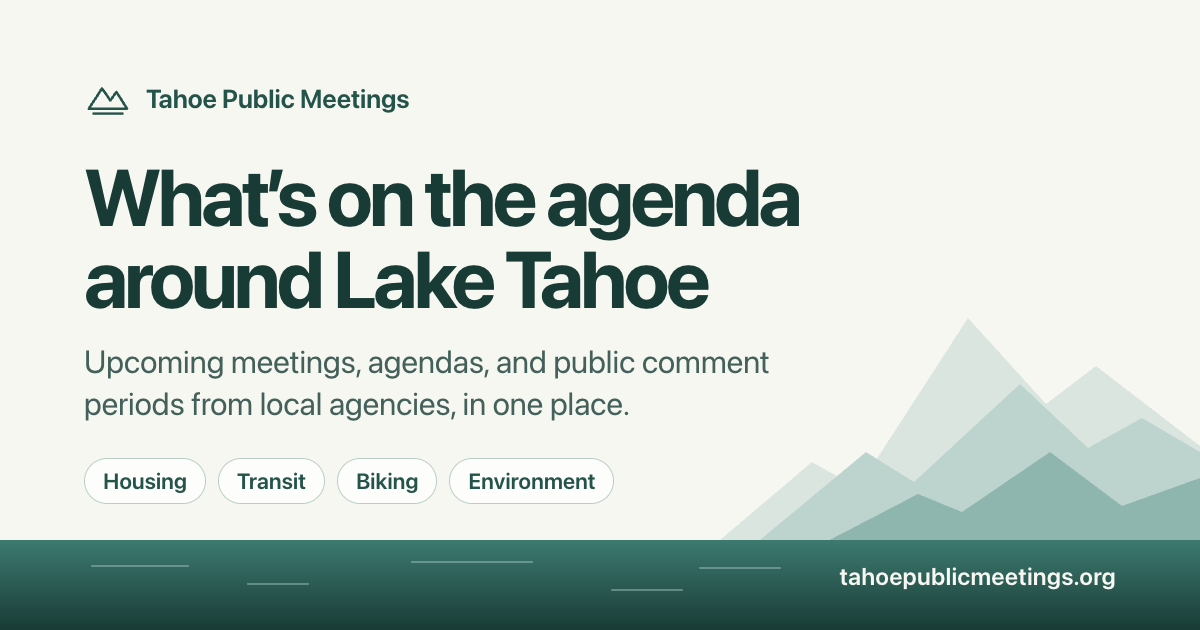
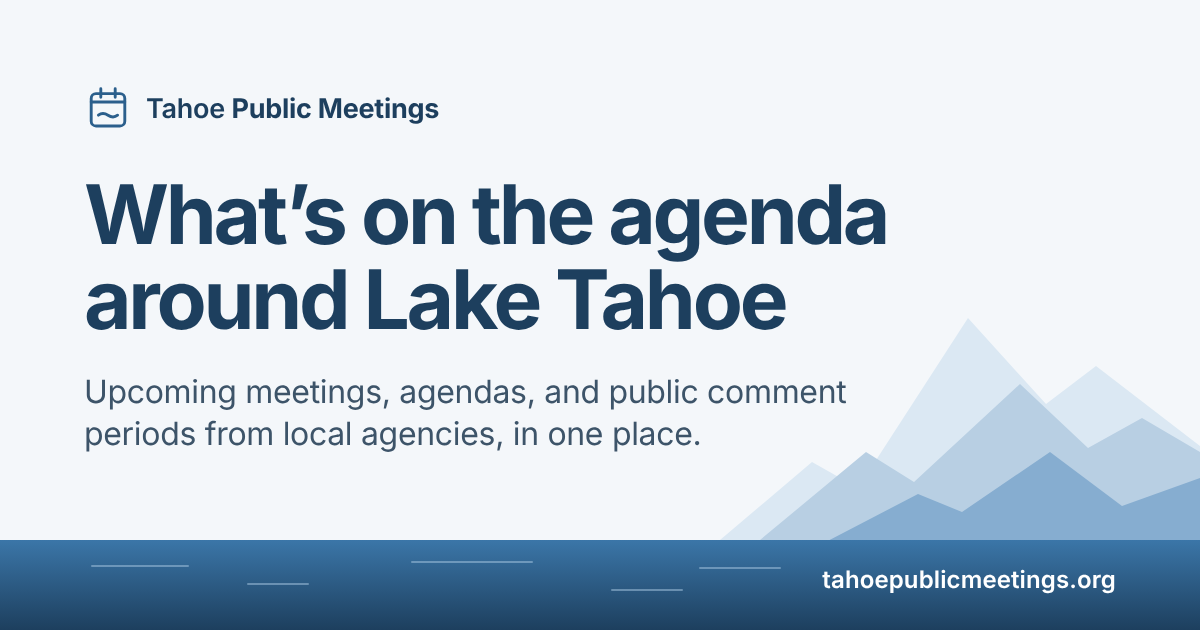
Record the Lake Calendar design and recolor the link preview image
Decision 0030 records the maintainer's choice: keep the layout and system
font, move to a blue and white palette with calendar-page date boxes,
reserve red for Canceled and amber for notes that change what the reader
should do, and adopt a calendar-with-wave mark.

The link preview image keeps its composition and words, recolored into
the new blues with the new mark. The topic names are gone so the image
does not go stale as the catalog changes.

Claude-Session: https://claude.ai/code/session_016L4GRy6w9hGyhE3zbsVtZJ

diff --git a/apps/web/scripts/og-image.html b/apps/web/scripts/og-image.html
@@ -1,6 +1,6 @@
 <!doctype html>
 <!--
-  Source for public/og-image.png, the 1200x630 link preview image.
+  Draft for public/og-image.png, the 1200x630 link preview image, in the Lake Calendar design.
   Re-render after editing (from apps/web):
     "/Applications/Google Chrome.app/Contents/MacOS/Google Chrome" --headless --hide-scrollbars \
       --force-device-scale-factor=1 --window-size=1200,630 \
@@ -14,39 +14,38 @@
   html, body { margin: 0; width: 1200px; height: 630px; overflow: hidden; }
   body {
     position: relative;
-    background: #f7f7f2;
-    color: #172d2b;
+    background: #f4f7fa;
+    color: #14283c;
     font-family: ui-sans-serif, system-ui, -apple-system, BlinkMacSystemFont, "Segoe UI", sans-serif;
     -webkit-font-smoothing: antialiased;
   }
   .scene { position: absolute; inset: 0; }
-  .content { position: absolute; left: 84px; top: 74px; right: 84px; }
-  .brand { display: flex; align-items: center; gap: 14px; color: #24534a; font-size: 26px; font-weight: 650; letter-spacing: -.01em; }
-  .brand svg { width: 48px; height: 48px; fill: none; stroke: #24534a; stroke-width: 2.1; stroke-linecap: round; stroke-linejoin: round; }
-  h1 { margin: 34px 0 0; color: #193b36; font-size: 80px; font-weight: 720; letter-spacing: -.045em; line-height: 1.02; }
-  p { margin: 22px 0 0; max-width: 700px; color: #44605a; font-size: 32px; line-height: 1.3; letter-spacing: -.01em; }
-  .topics { display: flex; gap: 12px; margin-top: 34px; }
-  .topics span { padding: 9px 18px; border: 1.5px solid #b9cfc5; border-radius: 999px; background: rgb(255 255 255 / 72%); color: #24534a; font-size: 22px; font-weight: 620; }
-  .url { position: absolute; right: 84px; bottom: 40px; color: #f7f7f2; font-size: 24px; font-weight: 620; letter-spacing: .005em; }
+  .content { position: absolute; left: 84px; top: 84px; right: 84px; }
+  .brand { display: flex; align-items: center; gap: 14px; color: #1d3f5e; font-size: 27px; font-weight: 600; letter-spacing: -.01em; }
+  .brand strong { font-weight: 700; }
+  .brand svg { width: 48px; height: 48px; fill: none; stroke: #2b5f8c; stroke-width: 2.4; stroke-linecap: round; stroke-linejoin: round; }
+  h1 { margin: 40px 0 0; color: #1d3f5e; font-size: 82px; font-weight: 700; letter-spacing: -.04em; line-height: 1.04; }
+  p { margin: 28px 0 0; max-width: 800px; color: #3d5469; font-size: 32px; line-height: 1.32; letter-spacing: -.01em; }
+  .url { position: absolute; right: 84px; bottom: 36px; color: #ffffff; font-size: 24px; font-weight: 600; letter-spacing: .005em; }
 </style>
 </head>
 <body>
   <svg class="scene" viewBox="0 0 1200 630" preserveAspectRatio="none" aria-hidden="true">
     <defs>
       <linearGradient id="lake" x1="0" y1="0" x2="0" y2="1">
-        <stop offset="0" stop-color="#3d7a70" />
-        <stop offset="1" stop-color="#193b36" />
+        <stop offset="0" stop-color="#3b76a8" />
+        <stop offset="1" stop-color="#1d3f5e" />
       </linearGradient>
     </defs>
     <!-- Distant ridge -->
-    <path d="M720 540 L812 462 L858 488 L968 318 L1046 404 L1096 366 L1200 446 L1200 540 Z" fill="#d9e5de" />
+    <path d="M720 540 L812 462 L858 488 L968 318 L1046 404 L1096 366 L1200 446 L1200 540 Z" fill="#dbe8f3" />
     <!-- Middle ridge -->
-    <path d="M760 540 L866 452 L914 482 L1020 384 L1088 448 L1142 418 L1200 452 L1200 550 L760 550 Z" fill="#bcd4cd" />
+    <path d="M760 540 L866 452 L914 482 L1020 384 L1088 448 L1142 418 L1200 452 L1200 550 L760 550 Z" fill="#b8cfe3" />
     <!-- Near ridge -->
-    <path d="M820 545 L918 494 L962 512 L1050 452 L1122 506 L1200 478 L1200 560 L820 560 Z" fill="#8fb6ae" />
+    <path d="M820 545 L918 494 L962 512 L1050 452 L1122 506 L1200 478 L1200 560 L820 560 Z" fill="#86add0" />
     <!-- Lake -->
     <rect x="0" y="540" width="1200" height="90" fill="url(#lake)" />
-    <g stroke="#a9c9c4" stroke-width="2" stroke-linecap="round" opacity=".45">
+    <g stroke="#a9c8e2" stroke-width="2" stroke-linecap="round" opacity=".5">
       <path d="M92 566 h96" /><path d="M248 584 h60" /><path d="M412 562 h120" />
       <path d="M612 590 h70" /><path d="M700 568 h80" />
     </g>
@@ -54,12 +53,11 @@
 
   <div class="content">
     <div class="brand">
-      <svg viewBox="0 0 40 40"><path d="M4 29 15 12l7 10 5-7 9 14H4Z"/><path d="M8 33h24"/></svg>
-      Tahoe Public Meetings
+      <svg viewBox="0 0 40 40"><rect x="6" y="8" width="28" height="27" rx="4"/><path d="M6 15h28M14 4v7M26 4v7"/><path d="M12 26c2.5-2 5-2 8 0s5.5 2 8 0"/></svg>
+      <span>Tahoe <strong>Public Meetings</strong></span>
     </div>
     <h1>What’s on the agenda<br />around Lake Tahoe</h1>
     <p>Upcoming meetings, agendas, and public comment periods from local agencies, in one place.</p>
-    <div class="topics"><span>Housing</span><span>Transit</span><span>Biking</span><span>Environment</span></div>
   </div>
 
   <div class="url">tahoepublicmeetings.org</div>

diff --git a/docs/decisions/0030-lake-calendar-visual-design.md b/docs/decisions/0030-lake-calendar-visual-design.md
@@ -1,0 +1,30 @@
+# 0030: Lake Calendar visual design
+
+Status: accepted
+Date: 2026-11-02
+Related ideas: none
+
+## Context
+The site's first look (a warm off-white page, sage green accents, system sans with tight tracking, small-radius cards) read as the generic default style of AI-generated pages. The maintainer liked the layout, the simplicity, the system font, and the calendar-like date boxes, and wanted a visual identity without a drastic overhaul. Four directions were mocked up: a civic-record look with Public Sans and square corners; a serif "field guide" with cream and ochre; a "lake and granite" blue scheme with a display sans; and a dense "community calendar" with condensed headlines and highlighter yellow. None was adopted whole. The maintainer pulled elements from them one at a time.
+
+## Decision
+Confirmed by the maintainer on 2026-11-02, "Lake Calendar":
+- Keep the layout and the system font stack. Use real 600 and 700 weights, and no uppercase apart from the TODAY label.
+- Use a blue and white palette with several blues: page `#f4f7fa`, headings `#1d3f5e`, links, buttons, and the today band `#2b5f8c`, body ink `#14283c`, muted text `#4f6579`, lines `#d5e0ea`, tint `#e4eef6`, pill `#dbe8f3`, and date box border `#9fbdd6`. No dark hero bands.
+- Round the corners: 10px for cards, 8px for fields and notes, 6px for tags.
+- Turn date boxes into small calendar pages (month band, day numeral, weekday). Expected meetings get a dashed state and canceled meetings are grey.
+- Reserve color for meaning. Routine changes (Revised, Rescheduled) and informational notes are blue. Only Canceled uses red. Amber is for notes that change what the reader should do, such as stale data.
+- The brand mark is a calendar page with a wave inside it. The previous mountain mark resembled a ski resort logo.
+- The link preview image keeps its composition and words, recolored into the blues and using the calendar mark. Its topic names are removed so it does not go stale as the topic catalog changes (decision 0008).
+
+## Alternatives and consequences
+- The civic-record look was too cold and square.
+- The serif field guide with cream and ochre was still a familiar default look.
+- The lake and granite scheme: the maintainer disliked the display typeface and found the dark hero too strong. Its blues were kept.
+- The community calendar was too dense, and the uppercase headlines were disliked. Its calendar-page date boxes were kept.
+
+The stylesheet is the single source of the palette. The redesign is design tokens plus small component changes, with no new components, so the layout and behavior are unchanged.
+
+## Revisit when
+- Reader feedback or tester sessions show the status colors are misread, for example a blue Revised pill being missed.
+- The topic catalog or agency set grows enough that the preview image or the mark needs to carry more.

diff --git a/docs/decisions/README.md b/docs/decisions/README.md
@@ -78,3 +78,5 @@ What new evidence would change the decision?
 [0028: Previews from notices and agenda planning calendars](0028-previews-from-notices-and-planning-calendars.md) (accepted) reads tracked public notices with Claude into one-off meetings and planned agenda subjects, parses the South Lake Tahoe and TTD agenda planning calendars deterministically by format, shows planned subjects on upcoming meetings by default, and adds an Other agency whose meetings name their host per record.
 
 [0029: Usage analytics with cookieless GoatCounter](0029-usage-analytics.md) (accepted) counts page views and named events (outbound clicks to official documents, calendar downloads, feedback, timeline and agenda filters) with hosted GoatCounter: no cookies, no stored IP addresses, no persistent browser identifier, no public dashboard, and the script is emitted only when `PUBLIC_GOATCOUNTER_URL` is set in Vercel's Production environment.
+
+[0030: Lake Calendar visual design](0030-lake-calendar-visual-design.md) (accepted) replaces the sage green look with a blue and white palette in the existing layout and system font, turns date boxes into calendar pages, reserves red for Canceled and amber for notes that change what the reader should do, adopts a calendar-with-wave brand mark, and removes topic names from the link preview image.
